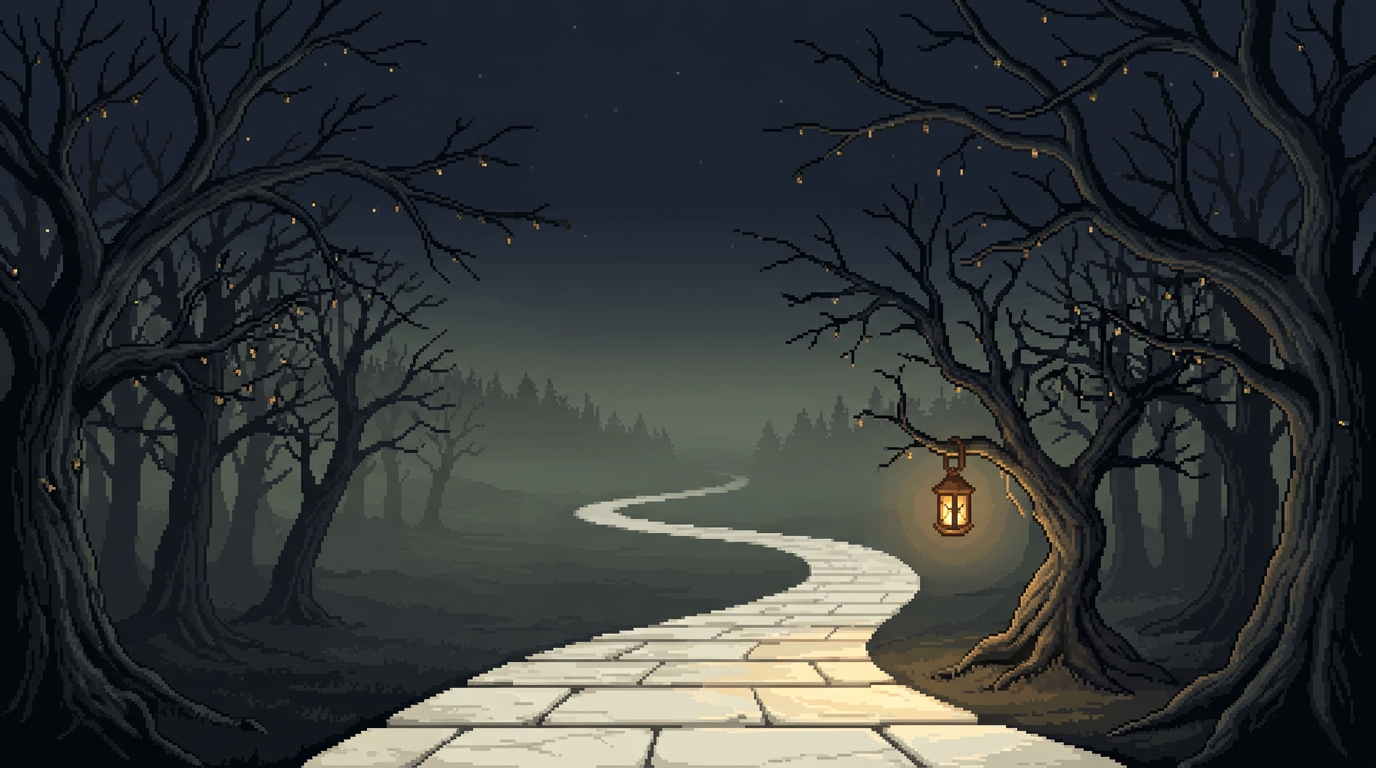
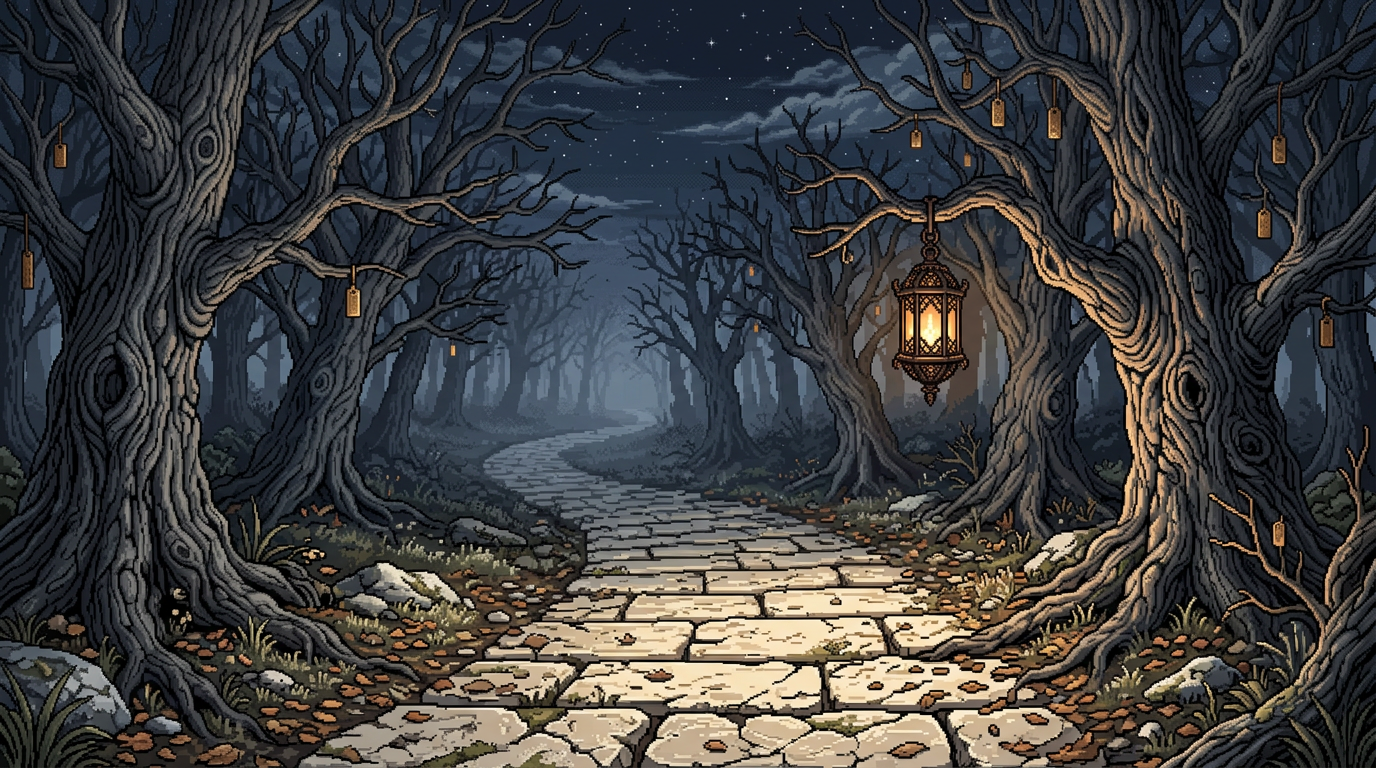
chapter 1: ultra-detailed pixel-art backdrop — no fog, no animation, just density
Regenerated cw-bg.png at far higher detail: every stone slab shows
cracks and moss, tree trunks have visible bark grain and knots,
branches interlace in intricate silhouettes, brass tags catch light
at different angles, the lantern throws complex dappled patterns
across the road, and the forest floor has scattered leaves, stones
and pale grass patches — matching the pixel density of the main
menu parallax layers.

Removed the fog layer entirely — the scene's own atmospheric mist
between the distant trees plus the dark sky and scattered stars
carry the mood without any animation.

Deleted cover-gilgamesh.png and cw-fog.png (no longer referenced).

diff --git a/css/style.css b/css/style.css
@@ -20899,7 +20899,7 @@ body[data-gfx='low'] .chapter-card:hover {
    discontinuity is <= 1.67x normal internal pixel change on every layer,
    below the art spec's 2.0 invisibility threshold.
 */
-/* ---- chapter 1: static backdrop + drifting fog ---- */
+/* ---- chapter 1: static detailed pixel-art backdrop ---- */
 .chapter-bg {
   position: fixed;
   inset: 0;
@@ -20917,30 +20917,11 @@ body[data-view='chapter'] .bg-grid {
   opacity: 0.08;
 }
 
-/* painted backdrop — fills the viewport, never moves */
 .cw-bg {
   position: absolute;
   inset: 0;
   background: url('../assets/chapter-1/cw-bg.png') center center / cover no-repeat;
   z-index: 1;
-}
-
-/* fog strip — pixel-art fog band scrolling across the scene */
-.cw-fog {
-  position: absolute;
-  left: 0; right: 0;
-  bottom: 8%;
-  height: 32%;
-  z-index: 2;
-  background: url('../assets/chapter-1/cw-fog.png') repeat-x 0 0 / auto 100%;
-  animation: cw-fog-drift 45s linear infinite;
-  opacity: 0.65;
-  pointer-events: none;
-}
-
-@keyframes cw-fog-drift {
-  from { background-position: 0 0; }
-  to   { background-position: -3000px 0; }
 }
 
 /* ---------------- chapter view chrome ---------------- */
@@ -21764,18 +21745,10 @@ html.mqh820 .rival-art.has-portrait {
 
 /* The full paint remains in low graphics; only optional scene/card motion
    drops, matching the main menu's accessibility and performance contract. */
-body[data-gfx='low'] .cw-fog {
-  animation: none !important;
-  opacity: 0.3;
-}
 body[data-gfx='low'] .rival-card.is-first:hover {
   transform: none;
 }
 @media (prefers-reduced-motion: reduce) {
-  .cw-fog {
-    animation: none !important;
-    opacity: 0.3;
-  }
   .rival-card,
   .rival-open i {
     transition: none;

diff --git a/index.html b/index.html
@@ -133,11 +133,10 @@
     </div>
 
     <!-- ==================== CHAPTER 1: THE ROAD OF ECHOES ====================
-         One painted backdrop with a single continuous fog layer gliding
-         across it for subtle atmospheric life. -->
+         A single highly detailed pixel-art backdrop. No animation needed —
+         the scene's own density carries the atmosphere. -->
     <div class="chapter-bg" id="chapter-bg" aria-hidden="true">
       <span class="cw-bg"></span>
-      <span class="cw-fog" aria-hidden="true"></span>
     </div>
 
     <!-- ==================== HOME / DASHBOARD ==================== -->
